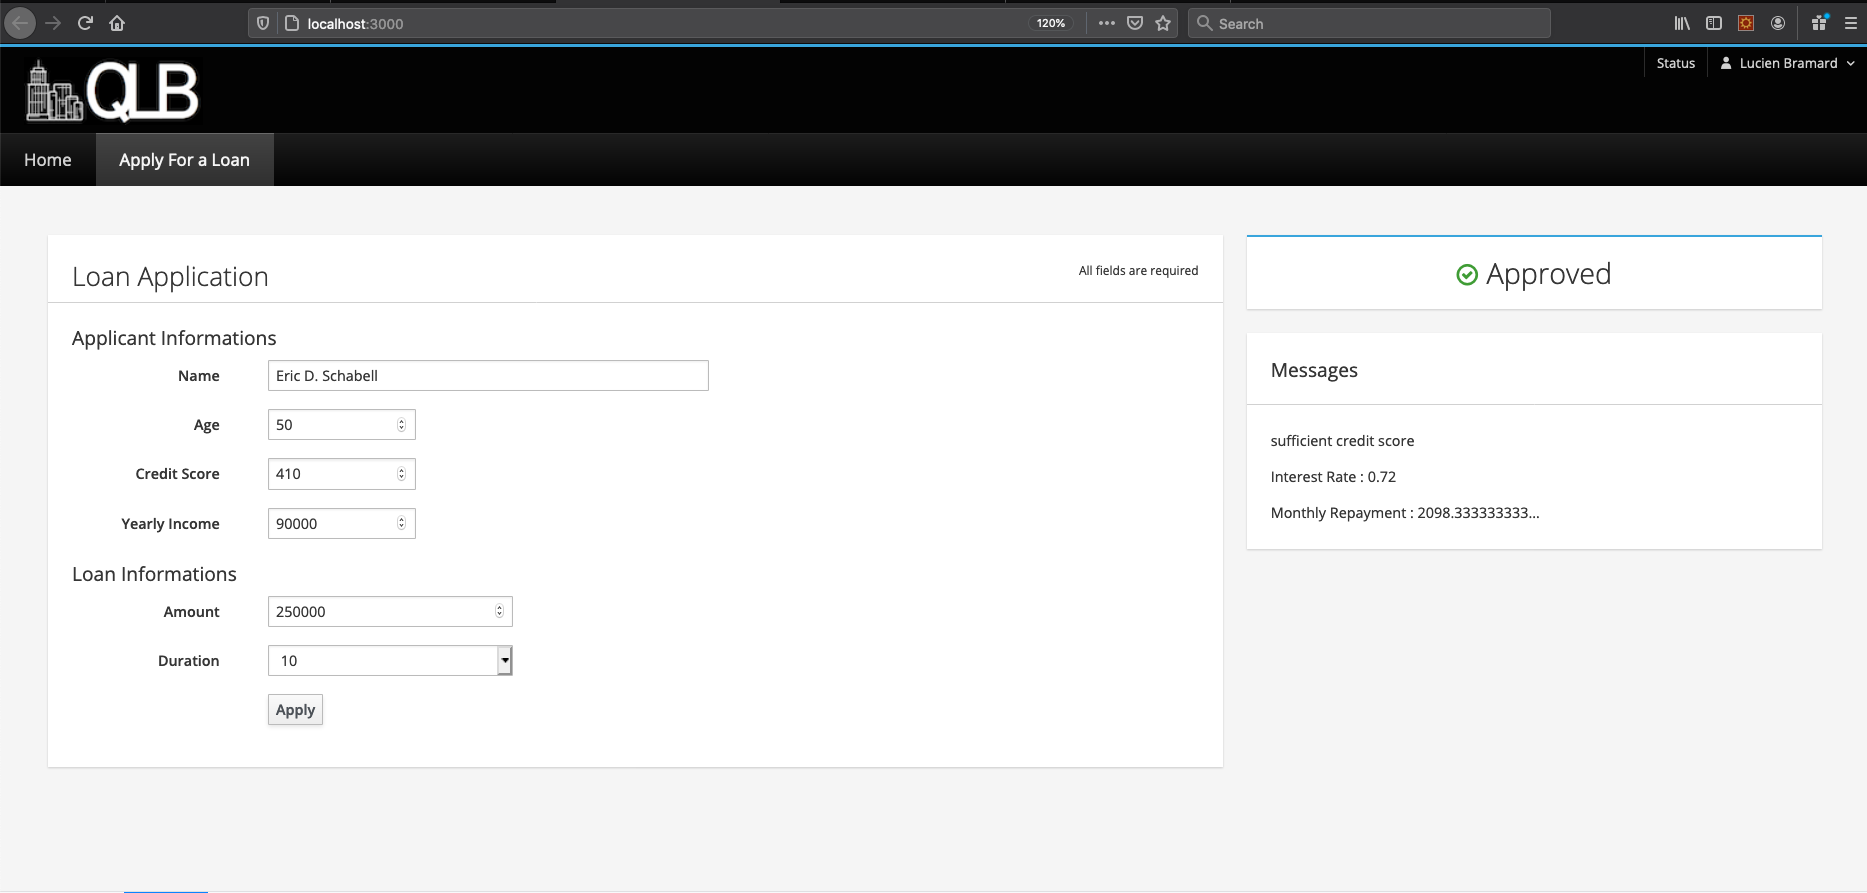
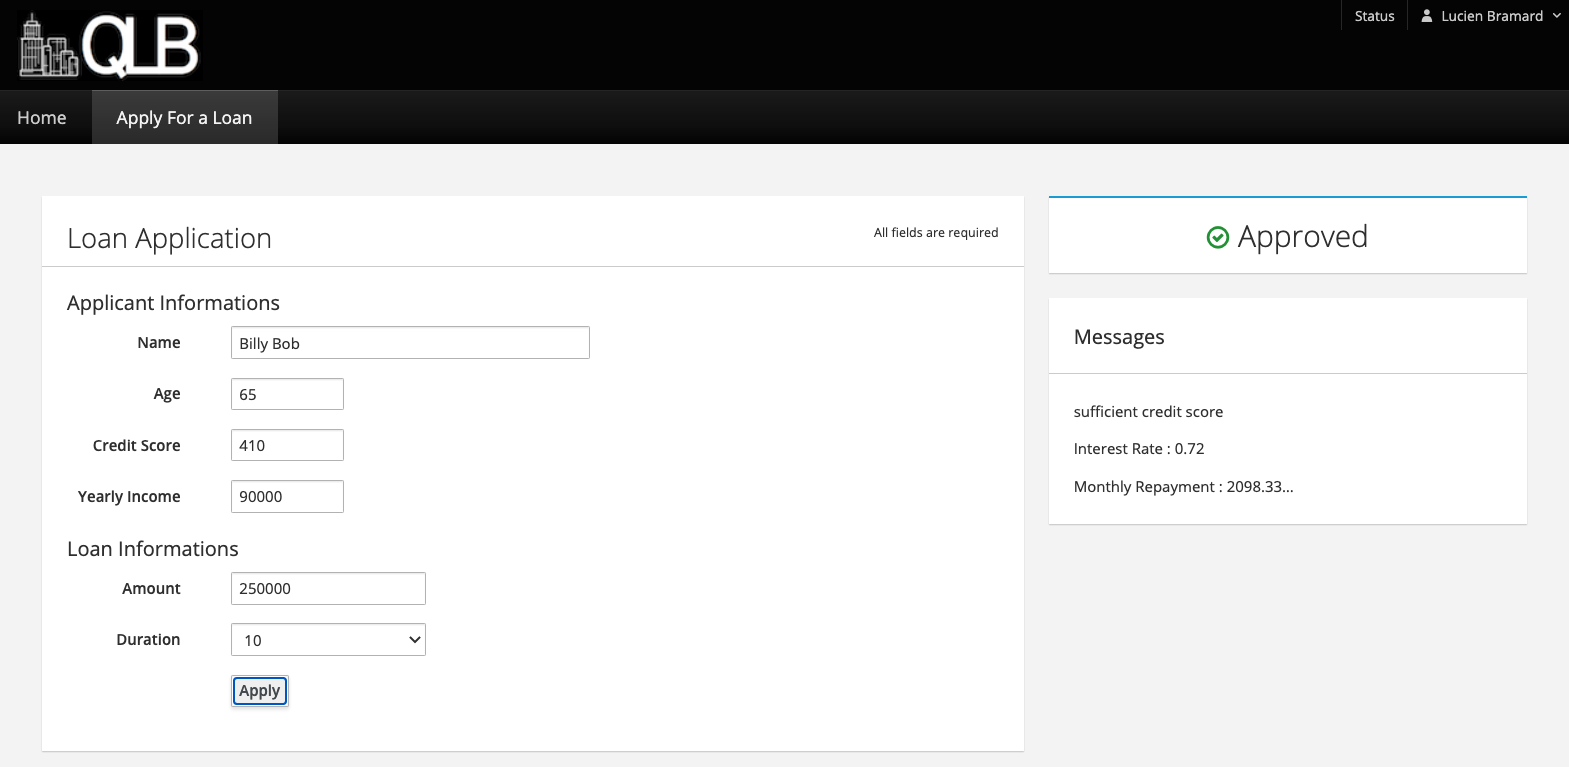
Updating the readme with more details and images. Openshift is still WIP

diff --git a/README.md b/README.md
@@ -1,49 +1,99 @@
 Red Hat Decision Manager Quick Loan Bank Demo
 =============================================
-This demo project showcases the tooling available in Red Hat Decision Manager implementing 
-complex decision logic which can be exposed as a decision service. The Quick Loan Bank in this 
-demo uses technical rules, decision tables, guided rules with a Domain Specific Language, and 
-Excel decision tables to define its loan calculation and approval system.
 
-You will be given examples of calling the rules as if using them from an application through 
-the RestAPI that is exposed by the server. Furthermore, this demo provides a Node.js client 
-application written in AngularJS and PatternFly that showcases how web applications can 
-consume decision services deployed on the decision server.
+# Intro
 
-You can install this project on your own machine or on an OpenShift Container Platform.
+This is a demonstration of how a bank can reduce costs and increase customer satisfaction by having quicker responses. In this demonstration, we'll achieve these results improving the loan pre-approval process by automating it's decisioning. It also shows how it is possible to increase the collaboration between the business and technical teams in the process of automating and maintaining the business rules, enabling faster changes and reaction to business needs. 
 
+Red Hat Decision Manager supports the automation of decision in many different ways. Let's see how it's possible to implement business rules through:
 
-Installing on local machine
----------------------------
-1. [Download and unzip.](https://github.com/jbossdemocentral/rhdm7-qlb-loan-demo/archive/master.zip).
+- **Guided Rules with Domain Specific Language (DSL)** 
+- **Technical Rules (DRL)**
+- **Guided Decision TablesExcel Decision Tables**
+- **Excel Decision Tables**
 
-2. Add products to installs directory, see installs/README for details and links.
+We'll see how the loan calculations and approvals can be automated through these assets and how we can do unit testing of these rules through **Test Scenarios**. We'll use **Decision Central** to author and deploy the rules, into the **Decision Engine**, and we'll use a custom front end application to consume the rules deployed in the Decision Engine.
 
+# Technical Details
+* This demo runs in Red Hat Decision Manager 7.8. 
+* You can either provision it locally in Red Hat EAP, in CRC or on OpenShift Container Platform 4.5;
+* In this demo, you will be given examples of calling the rules as if using them from an application through the Rest API that is exposed by the Decision Engine. 
+* You'll also have available a Node.js client application written in AngularJS and PatternFly that showcases how web applications can consume decision services deployed on the decision server.
+
+## Installing on local machine
+
+1. [Download and unzip](https://github.com/jbossdemocentral/rhdm7-qlb-loan-demo/archive/master.zip) or [clone this repo](https://github.com/jbossdemocentral/rhdm7-qlb-loan-demo.git).
+2. Download and add products below to installs directory ( refer to [installs/README](installs/README) for more details ).
+    * [Red Hat Enterprise Application Platform zip file (jboss-eap-7.3.0.zip)](https://developers.redhat.com/download-manager/file/jboss-eap-7.3.0.zip)
+    * [Decision Central deployable (rhdm-7.8.0-decision-central-eap7-deployable.zip](https://developers.redhat.com/products/red-hat-decision-manager/download)
+    * [Decision Server (KIE Server) deployable (rhdm-7.8.0-kie-server-ee8.zip)](https://developers.redhat.com/products/red-hat-decision-manager/download)
 3. Run 'init.sh' or 'init.bat' file. 'init.bat' must be run with Administrative privileges
 
-Follow install output instructions and log in to http://localhost:8080/decision-central  (u:dmAdmin / p:redhatdm1!)
+Follow the install output instructions and log in to Decision Central. 
 
-Kie Servier access configured (u: kieserver / p:kieserver1!)
+- Decision Central: http://localhost:8080/decision-central  (u:dmAdmin / p:redhatdm1!)
+- Kie Server Swagger UI:  http://localhost:8080/kie-server/docs :  (u: kieserver / p:kieserver1!)
 
 Enjoy installed and configured Red Hat Decision Manager Quick Loan Bank Demo (see below for how to run demo).
 
 
-Running the demo
-----------------
-1. Click on the "loan-application" project to open the Loan Application Demo project.
+## Running the demo
 
-2. The project has simple data model (Loan & Applicant) and single decision table (loan-application) which contains the 
-   loan approval rule set.
+1. Click on the "loan-pre-approval" project to open the Loan Application Demo project.
 
-3. Build and deploy version 1.0 of the project. Click on the "Build and Deploy" in the upper right corner.
+    (./docs/demo-images/bc-loan-pre-approval-project.png)
 
-4. Go to "Menu -> Deploy -> Execution Servers" repository to see the loan-application_1.0 KIE Container deployed on the 
-   Decision Server.
+2. About the project:
 
-5. The decision server provides a Swagger UI that documents the full RESTful interface exposed by the server 
+    * The project has simple data models (Loan & Applicant) and a decision flow (decision-flow.bpmn) which shows how the groups of rules are logically triggered in order to come out with a loan pre approval. 
+
+      * Applicant Data Model:
+
+      ![](./docs/demo-images/bc-applicant-data-model.png)
+
+      * Decision Flow:
+
+      ![](./docs/demo-images/bc-decision-flow.png)
+
+    * In the decision-flow, notice how each node in the diagram relates to a "`ruleflow-group`". 
+
+      ![](./docs/demo-images/bc-decision-flow-ruleflow-group.png)
+
+    * Based on this parameter the engine knows which sets of rules to trigger, even if these rules are written in different files (notice how the set of rules identified by the `ruleflow-group`  "eligibility-rules" are defined in the Guided Rules (with DSL) files `eligibility-too-old-applicant` and `eligibility-too-young-applicant` .
+
+      ![](./docs/demo-images/bc-guided-rules-dsl.png)
+
+    * The rules authored in the files `eligibility-too-old-applicant` and `eligibility-too-young-applicant`, are written using Domain Specific Language. You can check the definition of this DSL in the file `dsl-definition`.
+
+      ![](./docs/demo-images/bc-dsl-definition.png)
+
+    * Now, open the file `interest-rate-calculation` which has a set of rules written with XLS. Download the file and take a look at it. 
+      * You'll notice there are rules based on the minimum and maximum ammount of loan and the time the applicant intends to pay this loan (7,10,15,20 and 25 years). Depending on these conditions, the output will be the respective 
+        "Interest Rate %".
+        
+        ![](./docs/demo-images/xls-rules.png)
+        
+      * Notice how these rules are part of the ruleflow-group "calculation-rules", which will be invoked in a different part of the decision-flow.
+      
+    * The rules implemented using RHDM can be tested, for example, by using a "Test Scenario".  Besides allowing you to write features in an intuitive way, the Test Scenario feature, generates a Test Report and allows you to validate which rules are being fired based on the inputs you provide. You will also be able to validate the test coverage of your rules.
+
+      ![](./docs/demo-images/bc-test-scenario.png)
+
+3. Click on the "Deploy" in the upper right corner to build and deploy version 1.0 of the project. 
+
+    ![](./docs/demo-images/bc-deploy-button.png)
+
+4. In the success message, click on "View Deployment Details". You should see the loan-pre-approval KIE Container deployed on the Decision Server.
+
+    ![](./docs/demo-images/bc-view-deployment-details.png)
+
+### Testing the deployed application using the Decision Server REST API
+
+1. The decision server provides a Swagger UI that documents the full RESTful interface exposed by the server 
    at: http://localhost:8080/kie-server/docs
 
-6. In the Swagger UI:
+2. In the Swagger UI:
+
    - navigate to "KIE Server and KIE containers"
    - expand the "GET" operation for resource "/server/containers"
    - click on "Try it out"
@@ -51,14 +101,15 @@ Running the demo
    - when asked for credentials use: Username: kieserver, Password: kieserver1!
    - observe the response, which lists the KIE Containers deployed on the server and their status (STARTED, STOPPED).
 
-7. We can use the Swagger UI to test our Loan Approval Decision Service. In the Swagger UI:
+   - We can use the Swagger UI to test our Loan Pre Approval Decision Service. In the Swagger UI:
    - navigate to "KIE session assets"
    - expand the "POST" operation for resource "/server/containers/instances/{id}"
    - click on "Try it out"
-   - set the "id" parameter to the name of the KIE Container that hosts our rules, in this case `loan-application_1.0`.
+   - set the "id" parameter to the name of the KIE Container that hosts our rules, in this case `loan-pre-approval`.
    - set "Parameter content type" to `application/json`.
    - set "Response content type" to `application/json`
    - use the following request as the "body" parameter. Note that the `Loan` object has its `approved` attribute set to `false`:
+
    ```
    {
       "lookup": "default-stateless-ksession",
@@ -66,7 +117,7 @@ Running the demo
          {
             "insert": {
                "object": {
-                  "com.redhat.demo.qlb.loan_application.model.Applicant": {
+                  "com.redhat.demo.qlb.loan_pre_approval.model.Applicant": {
                      "creditScore":410,
                      "name":"Billy Bob",
                      "age":40,
@@ -79,7 +130,7 @@ Running the demo
          {
             "insert": {
                "object": {
-                  "com.redhat.demo.qlb.loan_application.model.Loan": {
+                  "com.redhat.demo.qlb.loan_pre_approval.model.Loan": {
                      "amount":250000,
                      "duration":10
                   }
@@ -89,7 +140,7 @@ Running the demo
          },
          {
             "start-process" : {
-               "processId" : "loan-application.loan-application-decision-flow",
+               "processId" : "loan-pre-approval.decision-flow",
                "parameter" : [ ],
                "out-identifier" : null
             }
@@ -99,40 +150,58 @@ Running the demo
    ```
    - observe the result. The Quick Loan Bank rules have fired and determined that, based on the credit score of the 
      application, and the amount of the loan, the loan can be approved. The `approved` attribute of the `Loan` has been 
-     set to `true`.
+     set to `true`. 
+   - In the json request above, try changing the Applicant age from 40 to 10. Execute the request again. You should see the message explaining why the Loan was not approved.
 
 
-Running demo with frontend UI
------------------------------
-1. Navigate to the *support/application-ui/* directory. The installation should have built the UI, but if not, manually 
-run the command `npm install` to install the required modules. Start the client application by running `npm start`. This 
-will start the NodeJS HTTP server and open the Quick Loan Bank client application in your browser (http://localhost:3000). 
-Try to submit a new loan request using the same data as shown the JSON file at above. Try to enter different values to 
-see a loan get disapproved, for example, change above applicant age from 40 to 80 for rejectoin based on age.
+### Running demo with frontend UI
 
-2. You can change the various rules as desired, change the version of the project, and redeploy a new version to a new 
-KIE Container (allowing you to serve multiple versions of the same rule set at the same time on the same decision server). 
-You can also build a new version of the project and use the Version Configuration tab of the container definition (in the 
-Execution Servers screen) to manage the container using the UPGRADE button to pull the new version.
+1. In your terminal navigate to the `support/application-ui/` directory. The installation should have built the UI, but if not, manually run the command `npm install` to install the required modules. 
+2. Start the client application by running `npm start`.  This will start the NodeJS HTTP server and open the Quick Loan Bank client application in your browser (http://localhost:3000). 
+
+1. Try to submit a new loan request using the same data as shown the JSON file at above. Try to enter different values to 
+    see a loan get disapproved, for example, change above applicant age from 40 to 80 for rejection based on age.
+
+    ![](./docs/demo-images/qlb-ui.png)
 
 
-Installng on OpenShift Container Platform (CodeReady Containers)
+#### Changing rules with no downtime
+
+Demonstrate how simple it is to update and deploy a business rules.
+
+1. Ask for a Loan (either using the rest api or the frontend ui) with the following parameters. The Loan should be approved.
+   
+    * Name: Billy Bob
+    * Age: 65
+    * Credit Score: 410
+    * Yearly Income: 90000
+    * Loan Amount: 250000
+    * Duration: 10
+    
+2. Open Business Central in another tab, open the project "loan-pre-approval", and open the rule `eligibility-too-old-applicant`.  Change the maximum age to 60. **Save** and close the file.
+3. Deploy the project again by clicking the `Deploy` button.
+4. Open the QLB UI frontend application, and simply submit the form again without changing the data or reloading the page. You should see the new rules are already in use.images
+    1. ![](./docs/demo-images/qlb-ui-reject.png)
+
+
+
+Installing on OpenShift Container Platform (CodeReady Containers)
 ---------------------------------------------------------------
 Install this demo on your local machine using an OpenShift Container Platform development cluster can be done using 
 CodeReady Continers. It's fully automated and delivers a fully functioning container-native development experience:
 
   [CodeReady Containers Quick Loan Bank Demo](https://gitlab.com/redhatdemocentral/crc-quick-loan-bank-demo)
 
-Intalling on any OpenShift Container Platform (generic)
+Installing on any OpenShift Container Platform (generic)
 -------------------------------------------------------
-This demo can be installed on your own version of OpenShift Container Platform. Options and guidance can be found in the 
+[WIP] This demo can be installed on your own version of OpenShift Container Platform. Options and guidance can be found in the 
 [openshift support directory README](support/openshift/README.md).
- 
 
-Supporting articles
+Supporting articles and videos
 -------------------
 
 - [Getting Started with Red Hat Decision Manager 7](https://developers.redhat.com/blog/2018/03/19/red-hat-decision-manager-7/)
+- [Video - Red Hat Decision Manager Install Demo](https://youtu.be/7Vpf9i1yJXU)
 
 
 Released versions

diff --git a/support/openshift/README.md b/support/openshift/README.md
@@ -1,31 +1,17 @@
 Red Hat Decision Manager Quick Loan Bank Demo
 =============================================
-This demo project showcases the tooling available in Red Hat Decision Manager implementing 
-complex decision logic which can be exposed as a decision service. The Quick Loan Bank in this 
-demo uses technical rules, decision tables, guided rules with a Domain Specific Language, and 
-Excel decision tables to define its loan calculation and approval system.
 
-You will be given examples of calling the rules as if using them from an application through 
-the RestAPI that is exposed by the server. Furthermore, this demo provides a Node.js client 
-application written in AngularJS and PatternFly that showcases how web applications can 
-consume decision services deployed on the decision server.
-
-You can install this project on an OpenShift Container Platform.
-
-
-Installng on OpenShift Container Platform
+Installing on OpenShift Container Platform
 -----------------------------------------
 This demo can be installed on Red Hat OpenShift Container Platform in various ways. We'll explain the different options provided.
 
 All installation options require an `oc` client installation that is connected to a running OpenShift instance. More information 
-on OpenShift and how to setup a local OpenShift development environment based on the Red Hat Container Development Kit can be 
-found [here](https://developers.redhat.com/products/cdk/overview/).
+on OpenShift and how to setup a local OpenShift development environment based on the Red Hat Container Development Kit can be found [here](https://developers.redhat.com/products/cdk/overview/).
 
 ---
 **NOTE**
 
-The Red Hat Decision Manager 7 - Decision Central image requires a 
-[Persistent Volume](https://docs.openshift.com/container-platform/3.7/architecture/additional_concepts/storage.html) which has 
+The Red Hat Decision Manager 7 - Decision Central image requires a [Persistent Volume](https://docs.openshift.com/container-platform/3.7/architecture/additional_concepts/storage.html) which has 
 both `ReadWriteOnce` (RWO) *and* `ReadWriteMany` (RWX) Access Types. If no PVs matching this description are available, 
 deployment of that image will fail until a PV of that type is available.
 
@@ -35,9 +21,8 @@ deployment of that image will fail until a PV of that type is available.
 This installation option will install the Decision Manager 7 and Decision Service in OpenShift using a single script, after 
 which the demo project needs to be manually imported.
 
-1. [Download and unzip.](https://github.com/jbossdemocentral/rhdm7-qlb-loan-demo/archive/master.zip) or 
-   [clone this repo](https://github.com/jbossdemocentral/rhdm7-qlb-loan-demo.git).
-
+1. [Download and unzip](https://github.com/jbossdemocentral/rhdm7-qlb-loan-demo/archive/master.zip) or [clone this repo](https://github.com/jbossdemocentral/rhdm7-qlb-loan-demo.git).
+   
 2. Run the "init-openshift.sh" (for Linux and macOS) or "init-openshift.ps1" (Windows) file. This will create a new project 
    and application in OpenShift.
 
